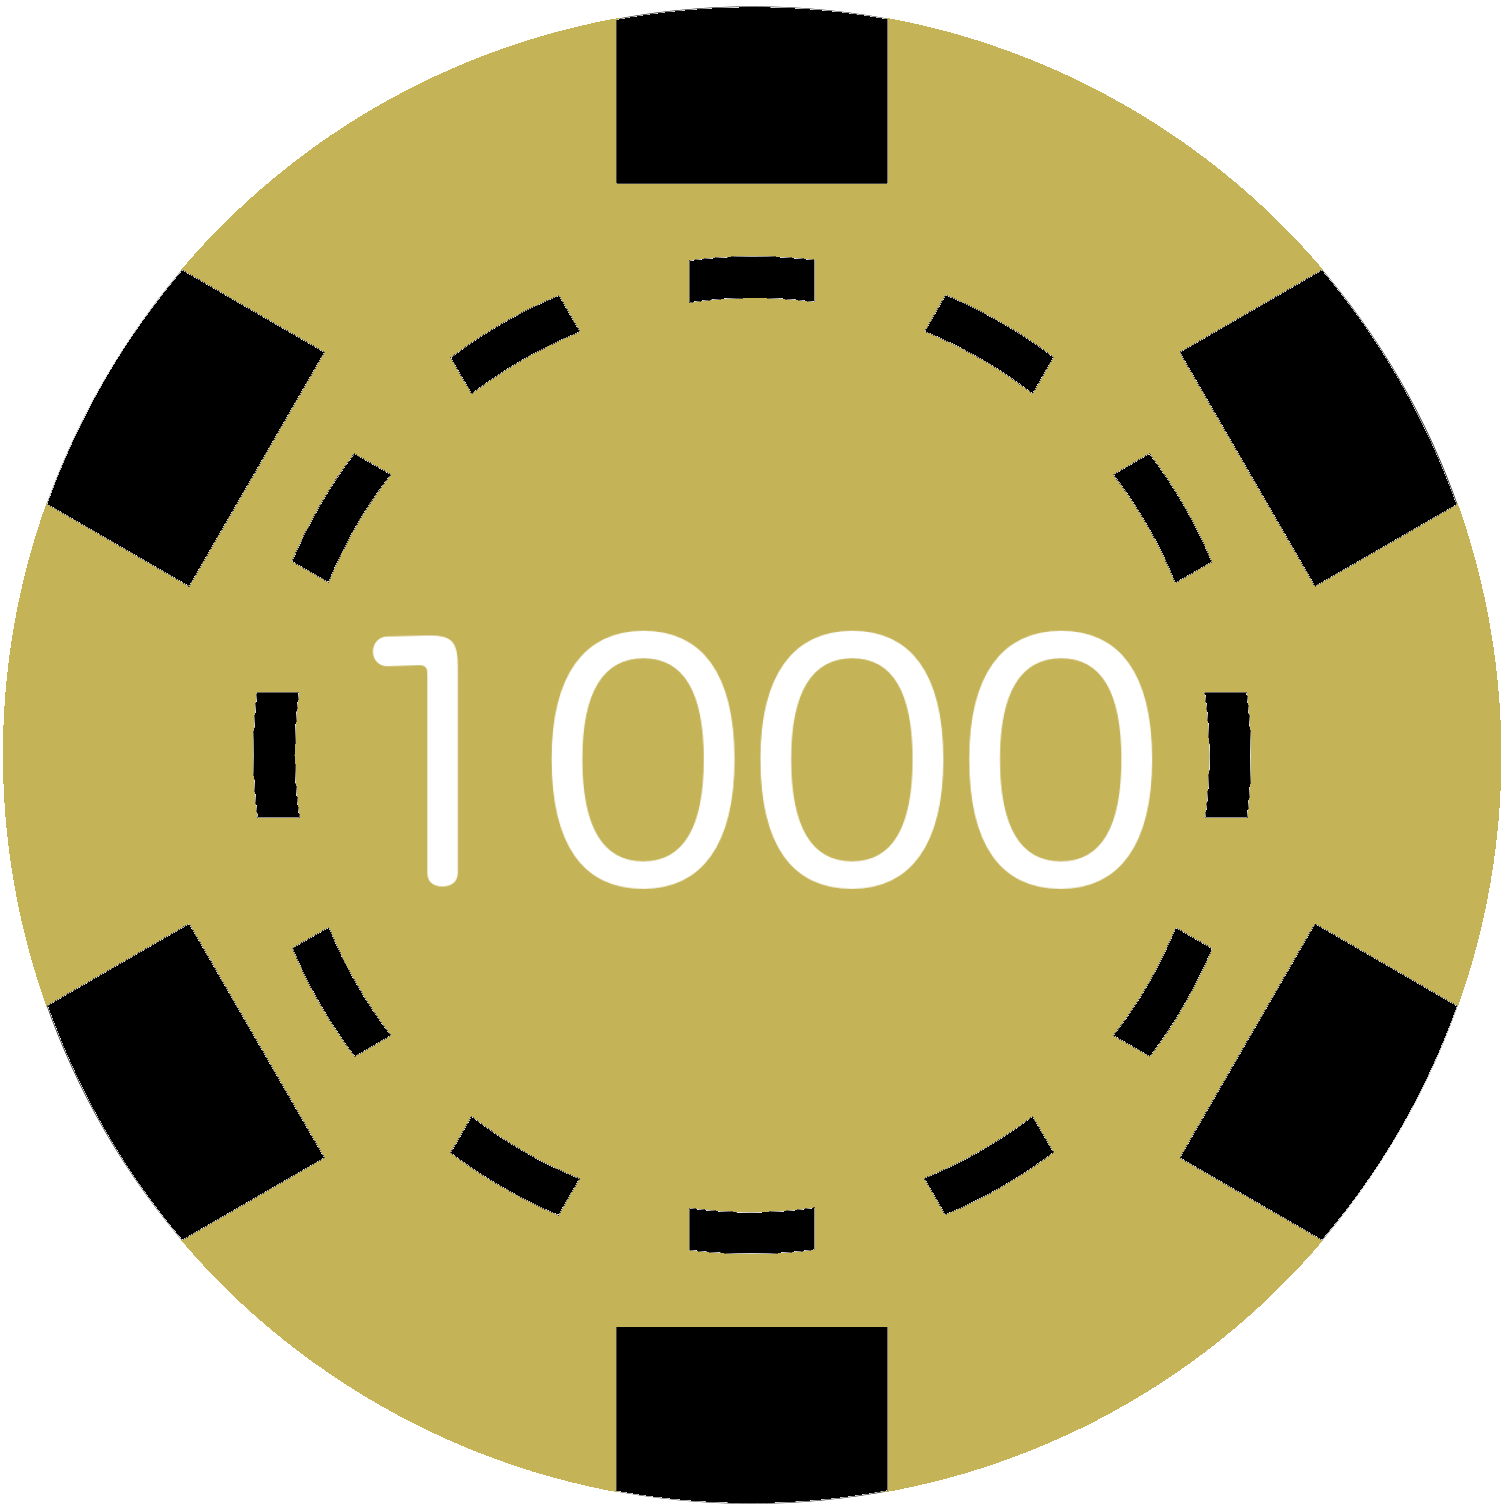
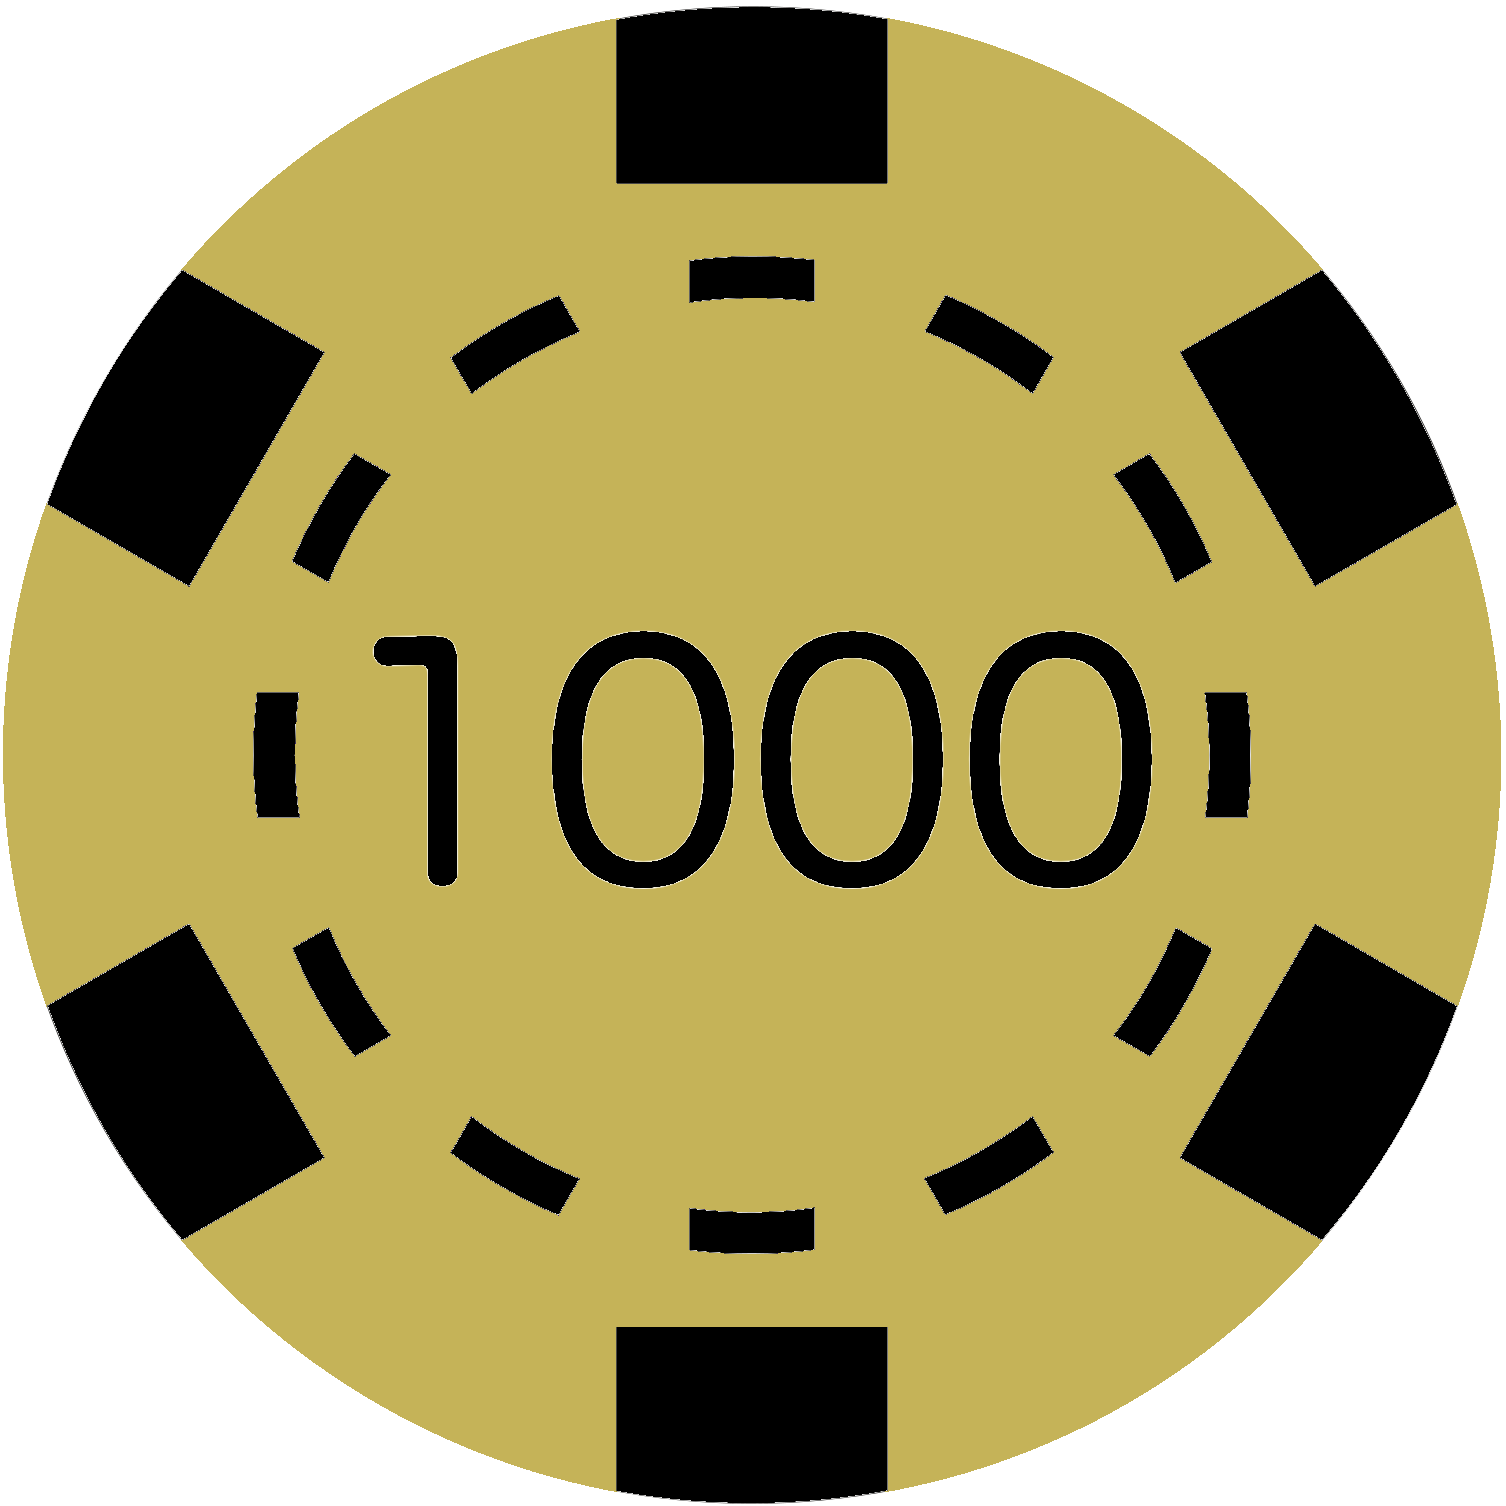
Moved ani to own .scss, added drop bounce ani, and changed text color on 1k chip

Changed region(s): [[0.3433, 0.4057, 0.7802, 0.593], [0.2497, 0.4057, 0.3121, 0.593]]

diff --git a/src/pages/game/game.ts b/src/pages/game/game.ts
@@ -37,14 +37,7 @@ declare let $: any;          //Jquery
                 // style({opacity: 1, transform: 'translate(-15px, 15px)',  offset: 0.3}),
                 style({opacity: 1, transform: 'translate(0, 0)',     offset: 1.0})
               ]))
-            ])//,
-            // transition('* => void', [
-            //   animate(500, keyframes([
-            //     style({opacity: 1, transform: 'translateX(0)',     offset: 0}),
-            //     style({opacity: 1, transform: 'translateX(15px)', offset: 0.7}),
-            //     style({opacity: 0, transform: 'translateX(-100%)',  offset: 1.0})
-            //   ]))
-            // ])
+            ])
         ]),
         trigger('bottomRightFlyIn', [
             state('in', style({transform: 'translateX(0)'})),
@@ -54,14 +47,7 @@ declare let $: any;          //Jquery
                 // style({opacity: 1, transform: 'translate(-15px, -15px)',  offset: 0.3}),
                 style({opacity: 1, transform: 'translate(0, 0)',     offset: 1.0})
               ]))
-            ])//,
-            // transition('* => void', [
-            //   animate(500, keyframes([
-            //     style({opacity: 1, transform: 'translateX(0)',     offset: 0}),
-            //     style({opacity: 1, transform: 'translateX(15px)', offset: 0.7}),
-            //     style({opacity: 0, transform: 'translateX(-100%)',  offset: 1.0})
-            //   ]))
-            // ])
+            ])
         ])
     ]
 })
@@ -283,7 +269,7 @@ export class GamePage {
     
             this.pot.push(userChip);
             this.pot.push(dealerChip);
-            this.potTotal += userChip.value;
+            this.potTotal += userChip.value * 2;
         } else {
             this.showToast('Not Enough Funds!', 3000, 'bottom', 'toastDanger');
         }
@@ -298,8 +284,6 @@ export class GamePage {
         setTimeout(() => {
             this.roundOver = true;
             this.winningPlayers.splice(0, this.winningPlayers.length);
-            this.pot.splice(0, this.pot.length);
-            this.potTotal = 0;
 
             // Take each players cards and push them to the trash and then
             // clear the players hand.
@@ -374,10 +358,17 @@ export class GamePage {
         }
 
         if (this.winningPlayers.length === 1) {
-            this.winningPlayers[0].addMoney(this.potTotal);
+            if (this.winningPlayers[0].type === 'Human' && this.winningPlayers[0].hand.length === 2 && this.winningPlayers[0].cardsTotal() == 21) {
+                this.winningPlayers[0].addMoney(this.potTotal + (this.potTotal/4)); // User gets 50% bonus on their bet for getting BlackJack! potTotal/2 = User bet, potTotal/4 = 50% User bet
+            } else {
+                this.winningPlayers[0].addMoney(this.potTotal);
+            }
         } else {
+            // It was a push since the dealer and user both won
             this.players[1].addMoney(usersChipTotal);
         }
+        this.pot.splice(0, this.pot.length);
+        this.potTotal = 0;
     }
 
     /**

diff --git a/src/pages/game/game.scss b/src/pages/game/game.scss
@@ -1,6 +1,6 @@
 game-page {
     ion-content.home {
-        background: url('/assets/img/tableBackground.png');
+        background: url('../assets/img/tableBackground.png');
         background-position: center center;
         // background-size: 100% 100%;
     }
@@ -16,48 +16,6 @@ game-page {
     .playerRow.dealerRow { flex: 1; color: #ffffff; /*border: 1px solid yellow;*/ }
     .potDeckRow { flex: 2; /*border: 2px solid lime;*/ }
     .playerRow.userRow { flex: 1; color: #fff; /*border: 1px solid magenta;*/ }
-
-    .winner {
-        background-color: $bs-success;
-        color: #fff;
-        border-radius: 3px;
-    }
-
-    .newWinner {
-        border: 2px solid green;
-        border-radius: 6px;
-        background-color: rgba(26,115,52,0.3);
-
-        animation: flash 4s forwards linear normal;
-    }
-    @keyframes flash {
-        0% {
-            border: 2px solid green;
-            border-radius: 6px;
-            background-color: rgba(26,115,52,0.3);
-        }
-        4% {
-            border: 2px solid transparent;
-            border-radius: 6px;
-            background-color: transparent;
-        }
-        8% {
-            border: 2px solid green;
-            border-radius: 6px;
-            background-color: rgba(26,115,52,0.3);
-        }
-        12% {
-            border: 2px solid transparent;
-            border-radius: 6px;
-            background-color: transparent;
-        }
-
-        16% {
-            border: 2px solid green;
-            border-radius: 6px;
-            background-color: rgba(26,115,52,0.3);
-        }
-    }
 
     .playerName {
         font-size: large;
@@ -94,7 +52,7 @@ game-page {
         border-bottom-left-radius: 6px;
     }
     .deckcardBack {
-        background: url('/assets/img/cardBack.png');
+        background: url('../assets/img/cardBack.png');
         background-size: 102px 119px;
         height: 100px;
         width: 6px;

diff --git a/src/pages/game/game-ani.scss b/src/pages/game/game-ani.scss
@@ -1,0 +1,59 @@
+game-page {
+    .newWinner {
+        border: 2px solid green;
+        border-radius: 6px;
+        background-color: rgba(26,115,52,0.3);
+
+        animation: flash 4s forwards linear normal;
+    }
+    @keyframes flash {
+        0% {
+            border: 2px solid green;
+            border-radius: 6px;
+            background-color: rgba(26,115,52,0.3);
+        }
+        4% {
+            border: 2px solid transparent;
+            border-radius: 6px;
+            background-color: transparent;
+        }
+        8% {
+            border: 2px solid green;
+            border-radius: 6px;
+            background-color: rgba(26,115,52,0.3);
+        }
+        12% {
+            border: 2px solid transparent;
+            border-radius: 6px;
+            background-color: transparent;
+        }
+
+        16% {
+            border: 2px solid green;
+            border-radius: 6px;
+            background-color: rgba(26,115,52,0.3);
+        }
+    }
+
+    .bounce {
+        animation: bounce 1s forwards linear normal;
+    }
+    @keyframes bounce {
+        0% {
+            transform: translateY(-40px);
+        }
+        12% {
+            transform: translateY(0);
+        }
+        22% {
+            transform: translateY(-16px);
+        }
+        32% {
+            transform: translateY(0);
+        }
+        100% {
+            transform: translateY(0);
+        }
+    }
+
+}

diff --git a/src/pages/game/game2.html b/src/pages/game/game2.html
@@ -38,14 +38,14 @@
 
           <ion-row>
             <ion-col width-100 center>
-              <span style="color: #ffffff;">Pot Total: ${{ potTotal }}</span>
+              <span style="color: #ffffff;">Pot Total: ${{ potTotal/2 }}</span>
             </ion-col>
           </ion-row>
 
           <ion-row>
             <ion-col width-100>
               <div *ngFor="let chip of pot; let i = index" style="display: inline-block;">
-                <img [src]="'../assets/img/chips/' +chip.value+ 'chip.png'" *ngIf="chip.owner === players[1]" style="width: 20px; height: 20px; display: inline-block;">
+                <img [ngClass]="{ 'bounce': chip === pot[pot.length-2] }" [src]="'../assets/img/chips/' +chip.value+ 'chip.png'" *ngIf="chip.owner === players[1]" style="width: 20px; height: 20px; display: inline-block;">
               </div>
             </ion-col>
           </ion-row>
@@ -53,7 +53,7 @@
         </ion-col>
         <ion-col width-50>
           
-          <div class="deck" style="display: inline-block;float: right;">
+          <div class="deck" style="display: inline-block; float: right;">
 
             <div>
               <div class="deckcardBack" *ngFor="let card of deck.cards; let i = index; let firstCard = first" [hidden]="i > 12"
